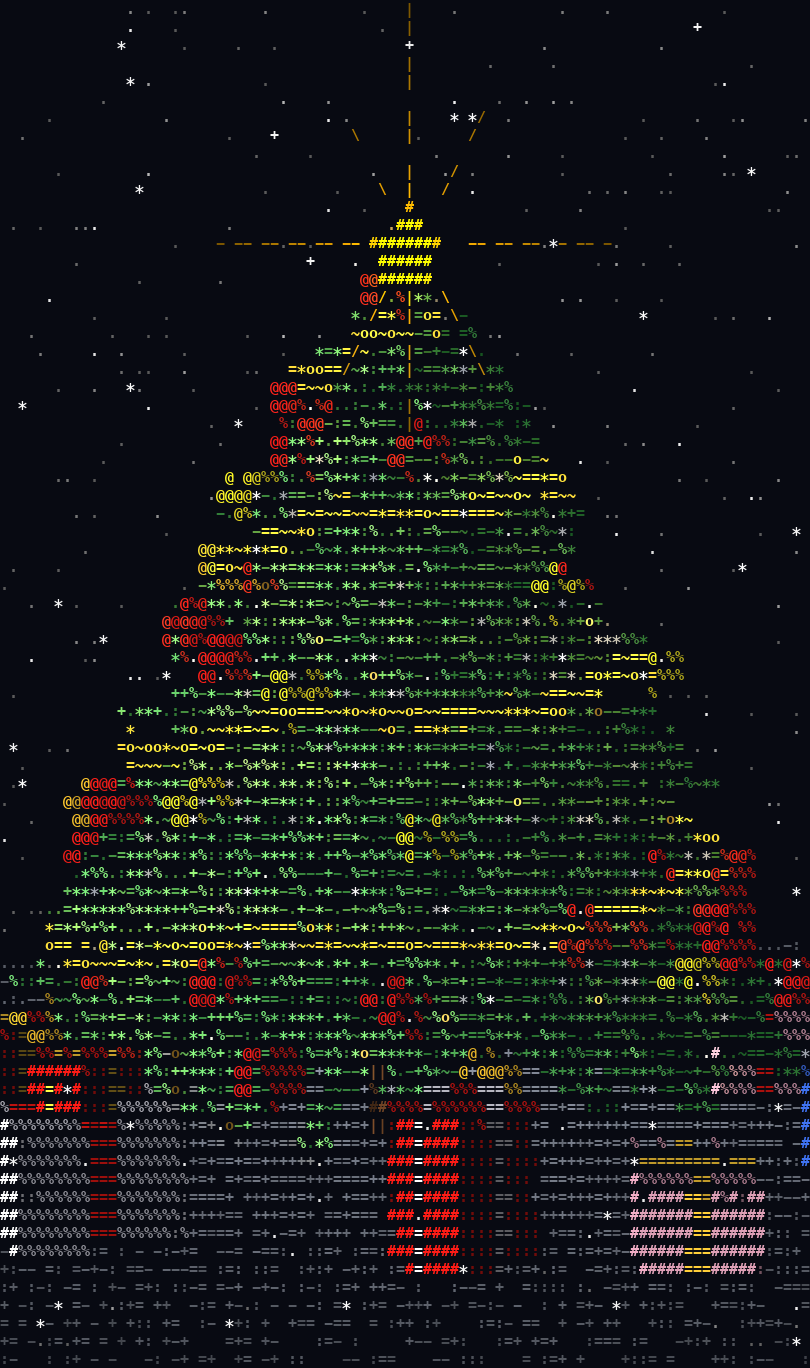
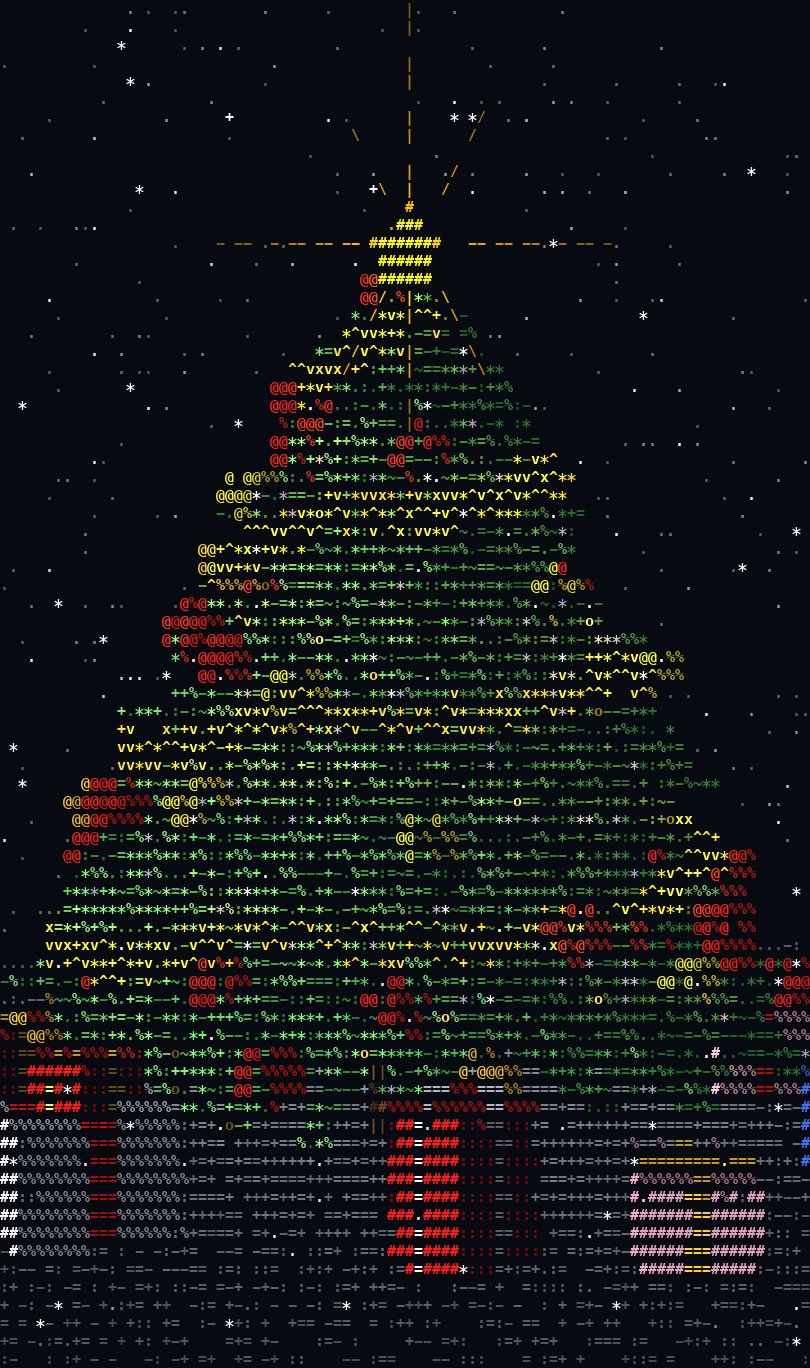
Spiky zigzag garland

diff --git a/tree.py b/tree.py
@@ -52,10 +52,10 @@ add(np.stack([0.085 * np.cos(a), hh, 0.085 * np.sin(a)], -1), np.stack([np.cos(a
 # ---------------------------------------------------------------- tinsel garland: drooping gold spiral in swags (glows)
 n = 2600; u = np.linspace(0, 1, n); turns = 3.6
 hg = 0.03 + 0.90 * u; ag = TAU * turns * u + 0.9
-swag = 0.06 * np.abs(np.sin(ag * 2.5)); rg = radius(hg) * 1.12
+swag = 0.06 * np.abs(np.sin(ag * 2.5)) + 0.02 * np.sign(np.sin(ag * 45)); rg = radius(hg) * 1.12   # swags + zigzag spikes
 p = np.stack([rg * np.cos(ag), YB + (YT - YB) * hg - swag, rg * np.sin(ag)], -1) + rng.normal(0, 0.008, (n, 3))
 g0 = sum(len(x) for x in P)
-add(p, 0, [1.0, 0.82, 0.22], 1.0, 3 + 3.5 * u, rng.choice(list("~=o*"), n, p=[.30, .35, .15, .20]))
+add(p, 0, [1.0, 0.82, 0.22], 1.0, 3 + 3.5 * u, rng.choice(list("*^v+x"), n, p=[.25, .27, .27, .10, .11]))
 g1 = sum(len(x) for x in P)
 
 # ---------------------------------------------------------------- ornaments: small shaded balls on branch tips
